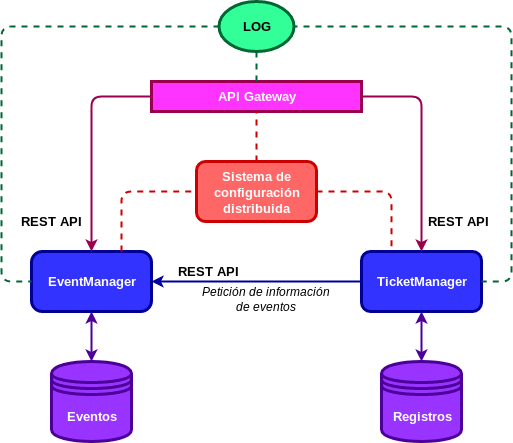
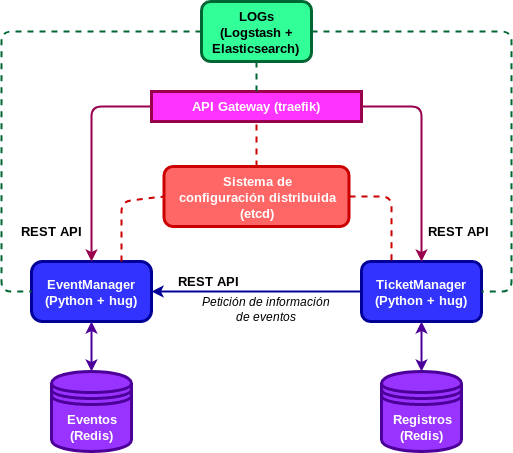
Añadida infraestructura closes #3

diff --git a/README.md b/README.md
@@ -1,3 +1,5 @@
+[![License: GPL v3](https://img.shields.io/badge/License-GPLv3-blue.svg)](https://www.gnu.org/licenses/gpl-3.0)
+
 # Proyecto de la asignatura Cloud Computing (UGR)
 
 Puede consultar cómo se configuró Git y Github para el proyecto en [este enlace.](https://github.com/alvarillo89/UGR-CC-Project/blob/master/doc/hito0.md)
@@ -6,42 +8,26 @@ Puede consultar cómo se configuró Git y Github para el proyecto en [este enlac
 
 `OpenEvent` es una aplicación open source que permite a organizadores de cualquier tipo publicar información sobre sus eventos y vender entradas para los mismos mediante pagos electrónicos. Todo ello a través de la nube.
 
-#### Entidades del dominio del problema:
+### Arquitectura:
 
-Las entidades en las que se puede dividir el dominio del problema son las siguientes:
+La aplicación se implementará siguiendo una arquitectura basada en microservicios. Cada una de las entidades extraídas en el [análisis del dominio del problema](https://github.com/alvarillo89/UGR-CC-Project/blob/master/doc/hito0-DDD.md) se asociarán a un microservicio diferente: 
 
-+ Evento: un evento es un suceso social, artístico o deportivo que se encuentra previamente programado. Está formado por un organizador, un título, la fecha y hora en la que se producirá, su dirección, una descripción, el número de entradas disponibles, el coste de las mismas y los datos de pago del organizador. A su vez, las funcionalidades asociadas a esta entidad son: 
-    - Creación de un nuevo evento.
-    - Modificación, por parte del organizador, de algunos datos de un evento existente.
-    - Eliminación de un evento existente.
-    - Consulta de los datos de un evento.
-+ Entrada: una entrada es el documento que acredita a una persona para el acceso a un determinado evento. Está formada por el título del evento al que pertenece, el nombre del propietario de la entrada y un código de validación. Las funcionalidades asociadas son:
-    + Comprar una entrada, procesando el pago correspondiente.
-    + Generar el documento que representa la entrada y que deberá ser presentado en el evento. Incluye el código de validación.
-    + Consultar si una entrada es válida o no, a partir de su código de validación.
-
-
-#### Arquitectura:
-
-La aplicación se implementará siguiendo una arquitectura basada en microservicios. Cada una de las entidades del dominio del problema extraídas en el apartado anterior se asociarán a un microservicio diferente: 
-
-+ `EventManager`: este microservicio implementará todas las funcionalidades asociadas con la entidad `Evento`.
++ `EventManager`: este microservicio implementará todas las funcionalidades asociadas con la entidad `Evento`: creación, modificación, borrado y consulta de eventos.
 + `TicketManager`: se encargará de procesar el pago de una determinada entrada y generar el documento asociado. Al mismo tiempo, almacenará el registro de pago y el código de validación de la misma para futuras comprobaciones. 
 
 Aquí se muestra un grafo con la arquitectura de la aplicación:
 
 ![](doc/imgs/Hito0/Arquitectura.png)
 
-Como puede observarse, se empleará una API Gateway que actúe como enrutador entre los distintos microservicios. Además, cada uno de ellos dispondrá de su propia API Rest para las comunicaciones.
+Cada microservicio dispondrá de su propia API Rest para las comunicaciones.
 
-#### Tecnologías y lenguajes:
+### Servicios:
 
-Se plantea realizar una implementación políglota, es decir, cada microservicio empleará un lenguaje diferente:
+A continuación se muestra una lista de los distintos servicios que se utilizarán para este proyecto:
 
-+ `EventManager`: se implementará en `Ruby`.
-+ `TicketManager`: se implementará en `Python`, el cual proporciona módulos que facilitan la realización de las funcionalidades que proporciona este microservicio, tales como generar códigos y PDFs.
-
-Por último, para el sistema de configuración distribuida se utilizará [etcd](https://etcd.io/).
+- Para el sistema de configuración distribuida se utilizará [etcd](https://etcd.io/).
+- Para el sistema de logging centralizado se utilizará [Logstash](https://www.elastic.co/es/products/logstash) + [Elasticsearch](https://github.com/elastic/elasticsearch). 
+- Para la API Gateway se empleará [traefik](https://traefik.io/), por lo sencillo que es de utilizar y de configurar. 
 
 #### Almacenes de datos:
 
@@ -50,4 +36,12 @@ Se necesita almacenar lo siguiente:
 - Datos de Eventos.
 - Registros de pago de las entradas y códigos de validación para futuras comprobaciones.
 
-Puesto que lo que nos interesa es recuperar eficientemente información (ya sea de eventos o de pagos realizados) a partir de identificadores (como puede ser el identificador del evento o el código de validación de una entrada) utilizaremos almacenes de datos basados en clave-valor, como por ejemplo [Apache Cassandra](http://cassandra.apache.org/).
+Puesto que lo que nos interesa es recuperar eficientemente información (ya sea de eventos o de pagos realizados) a partir de identificadores (como puede ser el identificador del evento o el código de validación de una entrada) utilizaremos almacenes de datos basados en clave-valor. Para este proyecto, se empleará [Redis](https://redis.io/). De entre todas las funciones que ofrece, también puede utilizarse como un almacén *key-value* muy eficiente.
+
+### Lenguajes y dependencias:
+
+Los dos microservicios se implementarán en `Python`. Se ha escogido este lenguaje porque proporciona módulos que facilitan la implementación de algunas operaciones del microservicio `TicketManager`, como la generación de códigos de barras que codifiquen el código de validación de las entradas (para lo que se usará el módulo [treepoem](https://pypi.org/project/treepoem/)) y la creación de archivos PDF (para lo que se utilizará [reportlab](https://pypi.org/project/reportlab/)).
+
+El microservicio `EventManager` no presenta ninguna funcionalidad que sea más facil de implementar en algún otro lenguaje, por tanto y de cara a facilitar la creación de los tests, también se implementará en `Python`.
+
+Por último, para implementar las APIs Rest, se utilizará [hug](https://www.hug.rest/), un módulo que destaca por simplificar enormemente el desarrollo de APIs (sobre todo con múltiples interfaces de acceso), generando código simple, limpio y con un alto grado de eficiencia.

diff --git a/doc/hito0-DDD.md b/doc/hito0-DDD.md
@@ -1,0 +1,13 @@
+# Entidades del dominio del problema:
+
+Las entidades en las que se puede dividir el dominio del problema son las siguientes:
+
++ Evento: un evento es un suceso social, artístico o deportivo que se encuentra previamente programado. Está formado por un organizador, un título, la fecha y hora en la que se producirá, su dirección, una descripción, el número de entradas disponibles, el coste de las mismas y los datos de pago del organizador. A su vez, las funcionalidades asociadas a esta entidad son: 
+    - Creación de un nuevo evento.
+    - Modificación, por parte del organizador, de algunos datos de un evento existente.
+    - Eliminación de un evento existente.
+    - Consulta de los datos de un evento.
++ Entrada: una entrada es el documento que acredita a una persona para el acceso a un determinado evento. Está formada por el título del evento al que pertenece, el nombre del propietario de la entrada y un código de validación. Las funcionalidades asociadas son:
+    + Comprar una entrada, procesando el pago correspondiente.
+    + Generar el documento que representa la entrada y que deberá ser presentado en el evento. Incluye el código de validación.
+    + Consultar si una entrada es válida o no, a partir de su código de validación.
